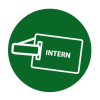
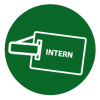
Resized images on front page

Changed region(s): [[0.03, 0.03, 0.96, 0.96], [0.45, 0.48, 0.75, 0.6]]

diff --git a/config/initializers/assets.rb b/config/initializers/assets.rb
@@ -8,6 +8,12 @@ Rails.application.config.assets.precompile += %w( internship_icon.png )
 Rails.application.config.assets.precompile += %w( volunteer1.png )
 Rails.application.config.assets.precompile += %w( Trophy-icon.png )
 Rails.application.config.assets.precompile += %w( logo-with-text.png )
+
+Rails.application.config.assets.precompile += %w( job-icon_big.png )
+Rails.application.config.assets.precompile += %w( internship_icon_big.png )
+Rails.application.config.assets.precompile += %w( volunteer_big.png )
+Rails.application.config.assets.precompile += %w( trophy-icon_big.png )
+
 # Add additional assets to the asset load path
 # Rails.application.config.assets.paths << Emoji.images_path
 
